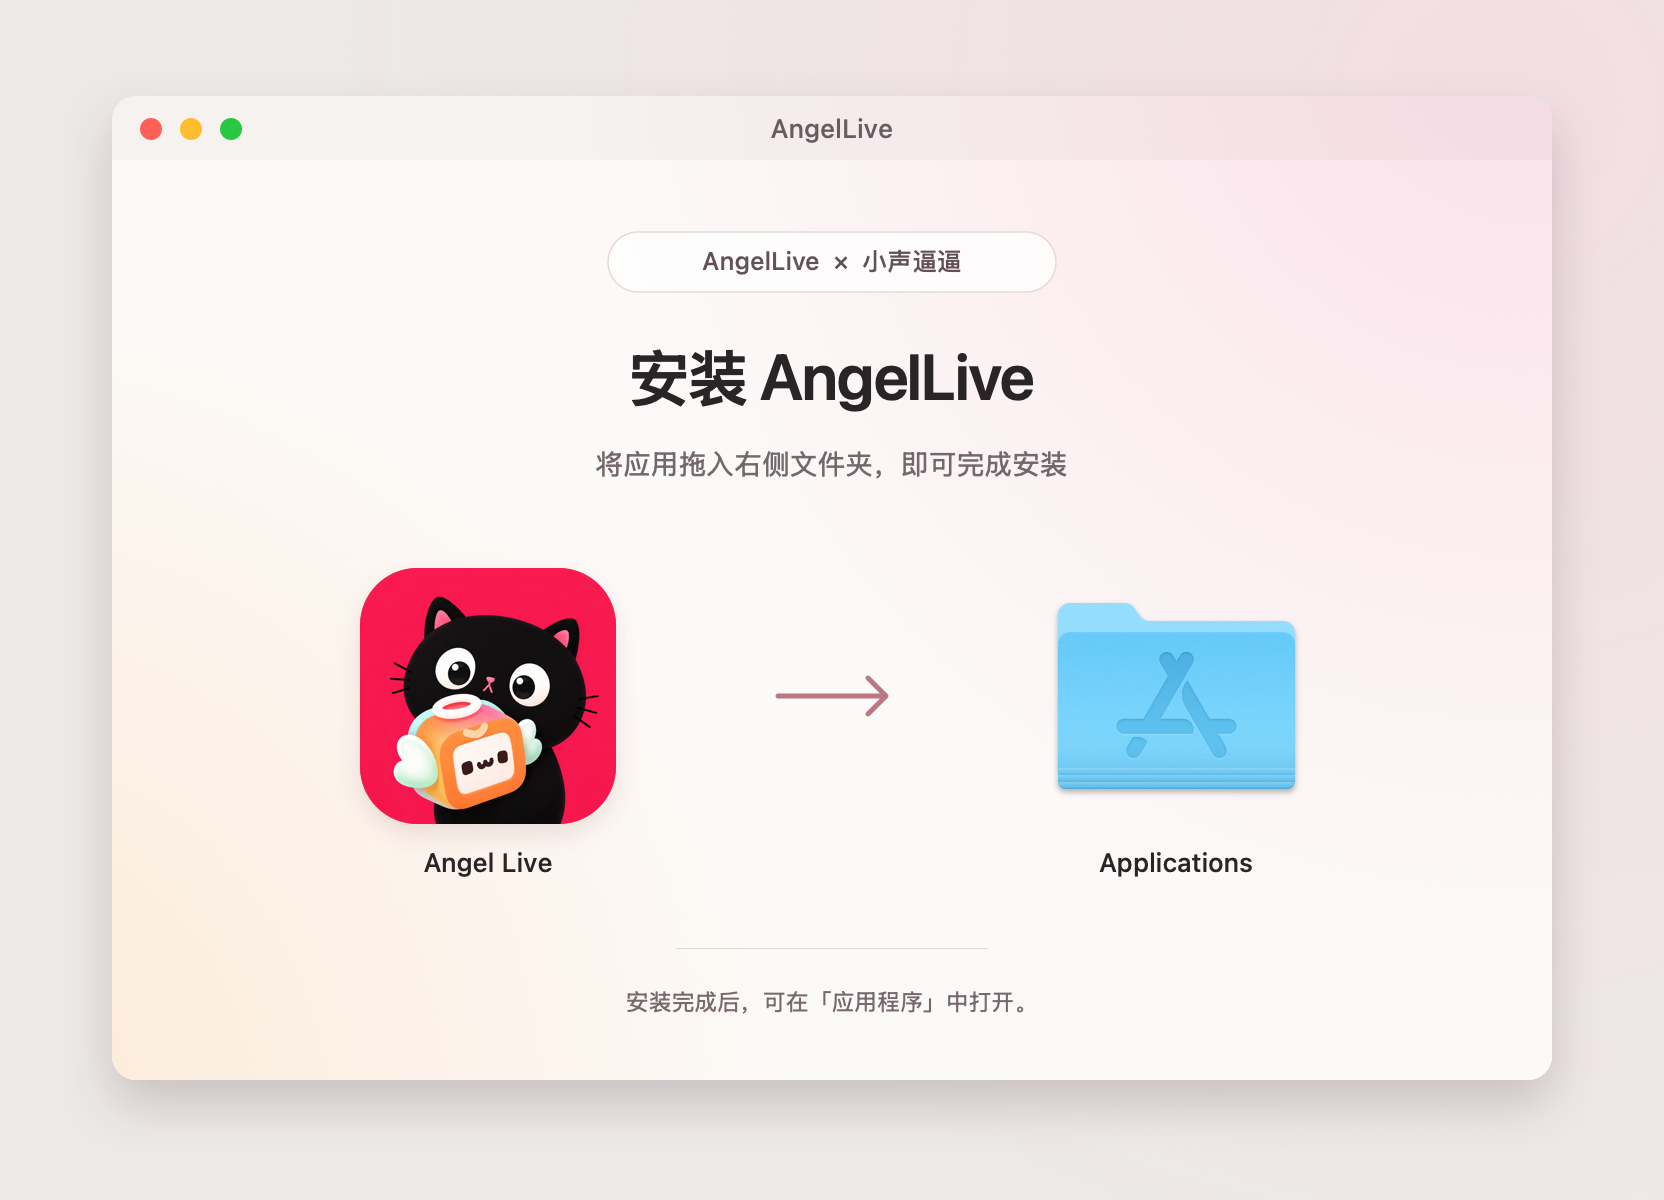
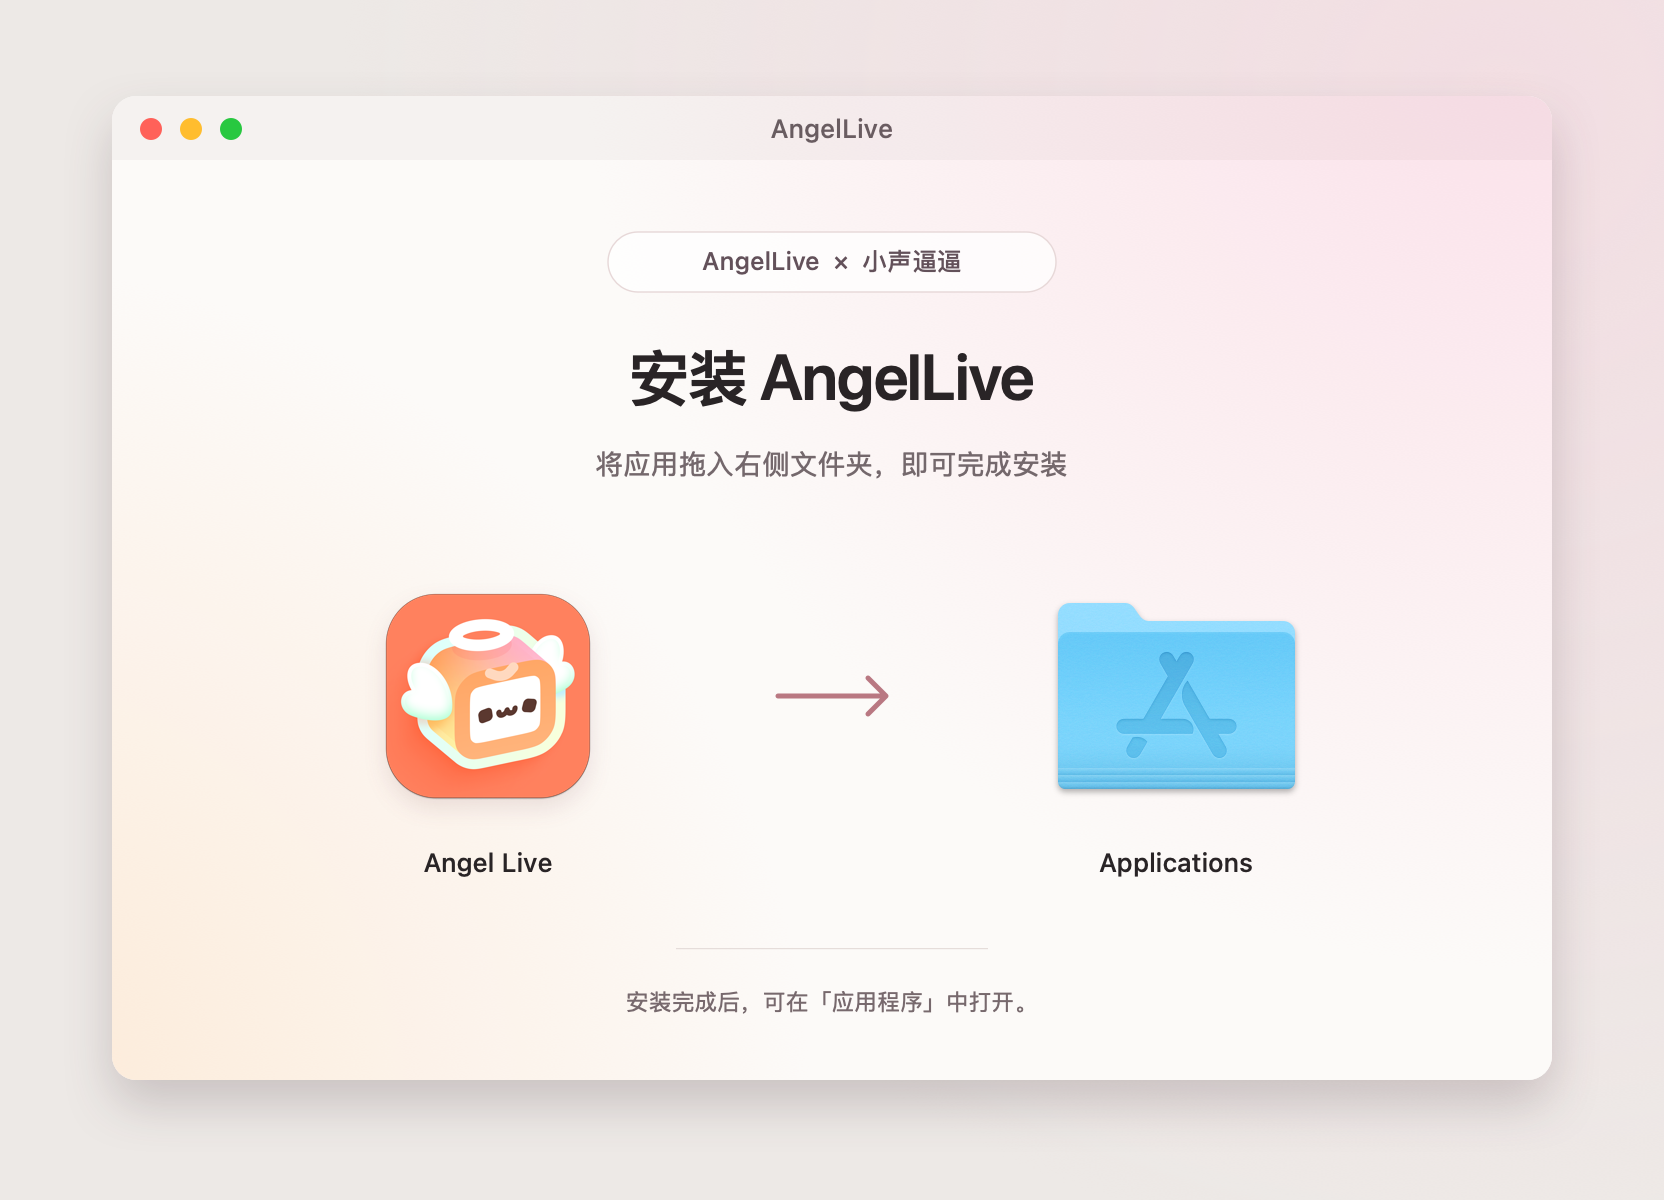
fix(macos): 恢复原版默认应用和 Dock 图标
- 将原版 Icon Composer 资源恢复为安装包主图标，保留原版和联名备用资源。
- 仅在用户选择联名时覆盖运行中的 Dock 图标，保留旧偏好值和设置预览。
- 将 DMG 安装预览的应用图标同步为原版，沿用现有安装背景。

Changed region(s): [[0.2188, 0.4625, 0.375, 0.7092]]

diff --git a/macOS/AngelLiveMacOS/MacDockIconPreference.swift b/macOS/AngelLiveMacOS/MacDockIconPreference.swift
@@ -6,16 +6,16 @@ enum MacDockIconPreference: String, CaseIterable, Identifiable {
     @MainActor
     private static var bundledIconImage: NSImage?
 
-    case xiaoShengBiBi = "xiaoShengBB"
     // Preserve the stored value for users who explicitly selected the original.
     case classic = "primary"
+    case xiaoShengBiBi = "xiaoShengBB"
 
     var id: Self { self }
 
     var title: String {
         switch self {
-        case .xiaoShengBiBi: "小声逼逼（联名）"
         case .classic: "AngelLive 原版"
+        case .xiaoShengBiBi: "小声逼逼（联名）"
         }
     }
 
@@ -24,10 +24,10 @@ enum MacDockIconPreference: String, CaseIterable, Identifiable {
         Self.cacheBundledIconIfNeeded()
 
         switch self {
-        case .xiaoShengBiBi:
-            return Self.bundledIconImage ?? NSApp.applicationIconImage
         case .classic:
-            return Self.classicIconImage
+            return NSImage(named: "AngelLiveClassicRuntime") ?? Self.bundledIconImage ?? NSApp.applicationIconImage
+        case .xiaoShengBiBi:
+            return Self.collaborationIconImage ?? Self.bundledIconImage ?? NSApp.applicationIconImage
         }
     }
 
@@ -36,21 +36,20 @@ enum MacDockIconPreference: String, CaseIterable, Identifiable {
         Self.cacheBundledIconIfNeeded()
 
         switch self {
-        case .xiaoShengBiBi:
+        case .classic:
             // nil restores the bundle icon so Icon Composer can keep supplying
             // the correct appearance-specific representation.
             NSApp.applicationIconImage = nil
-        case .classic:
-            NSApp.applicationIconImage = Self.classicIconImage
+        case .xiaoShengBiBi:
+            NSApp.applicationIconImage = Self.collaborationIconImage
         }
         NSApp.dockTile.display()
     }
 
     @MainActor
     static func applyStoredPreference(defaults: UserDefaults = .standard) {
-        let preference = defaults.string(forKey: storageKey)
-            .flatMap(Self.init(rawValue:)) ?? .xiaoShengBiBi
-        preference.apply()
+        guard defaults.string(forKey: storageKey) == Self.xiaoShengBiBi.rawValue else { return }
+        Self.xiaoShengBiBi.apply()
     }
 
     @MainActor
@@ -60,12 +59,20 @@ enum MacDockIconPreference: String, CaseIterable, Identifiable {
     }
 
     @MainActor
-    private static var classicIconImage: NSImage {
-        // The fallback is the existing rendered original icon, including its
-        // rounded silhouette, for systems without named Icon Composer images.
-        NSImage(named: "AngelLiveClassic")
-            ?? NSImage(named: "AngelLiveClassicRuntime")
-            ?? bundledIconImage
-            ?? NSApp.applicationIconImage
+    private static var collaborationIconImage: NSImage? {
+        if let composedIcon = NSImage(named: "XiaoShengBB") {
+            return composedIcon
+        }
+
+        guard let source = NSImage(named: "XiaoShengBBRuntime") else { return nil }
+
+        // Keep the rounded silhouette when AppKit cannot load the named Icon Composer image.
+        let size = source.size
+        return NSImage(size: size, flipped: false) { bounds in
+            let radius = min(size.width, size.height) * 0.2237
+            NSBezierPath(roundedRect: bounds, xRadius: radius, yRadius: radius).addClip()
+            source.draw(in: bounds, from: .zero, operation: .sourceOver, fraction: 1)
+            return true
+        }
     }
 }

diff --git a/macOS/Distribution/DMG/render.swift b/macOS/Distribution/DMG/render.swift
@@ -110,7 +110,7 @@ func drawBackground() {
 @MainActor
 func drawPreviewIcons() throws {
     let canvas = Canvas(height: layout.height)
-    let artwork = repository.appendingPathComponent("macOS/AngelLiveMacOS/XiaoShengBB.icon/Assets/AngelLive_XiaoShengBB.png")
+    let artwork = repository.appendingPathComponent("macOS/AngelLiveMacOS/Assets.xcassets/AngelLiveClassicRuntime.imageset/AngelLiveClassic.png")
     guard let app = NSImage(contentsOf: artwork),
           let applications = NSImage(contentsOfFile: "/System/Library/CoreServices/CoreTypes.bundle/Contents/Resources/ApplicationsFolderIcon.icns") else {
         throw NSError(domain: "DMGDesign", code: 1, userInfo: [NSLocalizedDescriptionKey: "Missing app artwork or macOS Applications icon."])
@@ -123,11 +123,6 @@ func drawPreviewIcons() throws {
     shadow.shadowOffset = NSSize(width: 0, height: -5)
     shadow.shadowColor = color(0x6D2A39, alpha: 0.12)
     shadow.set()
-    color(0xF43F72).setFill()
-    NSBezierPath(roundedRect: appBounds, xRadius: size * 0.224, yRadius: size * 0.224).fill()
-    NSGraphicsContext.restoreGraphicsState()
-    NSGraphicsContext.saveGraphicsState()
-    NSBezierPath(roundedRect: appBounds, xRadius: size * 0.224, yRadius: size * 0.224).addClip()
     app.draw(in: appBounds, from: .zero, operation: .sourceOver, fraction: 1)
     NSGraphicsContext.restoreGraphicsState()
 

diff --git a/macOS/AngelLiveMacOS/Views/SettingView.swift b/macOS/AngelLiveMacOS/Views/SettingView.swift
@@ -17,7 +17,7 @@ struct SettingView: View {
     #endif
     @Environment(PluginAvailabilityService.self) private var pluginAvailability
     @AppStorage(MacDockIconPreference.storageKey)
-    private var dockIconPreference = MacDockIconPreference.xiaoShengBiBi
+    private var dockIconPreference = MacDockIconPreference.classic
     @AppStorage(MacPlaybackPresentationPreference.singlePageModeKey)
     private var singlePagePlayback = false
 

diff --git a/macOS/Distribution/DMG/README.md b/macOS/Distribution/DMG/README.md
@@ -1,6 +1,6 @@
 # AngelLive 联名 DMG 安装窗口
 
-浅暖白背景，右上淡粉、左下淡橙，沿用 AngelLive × 小声逼逼联名图标。中央保留从应用到 Applications 的拖拽路径，使用系统应用程序文件夹图标。界面只说明安装动作与安装后的打开位置。
+浅暖白背景，右上淡粉、左下淡橙，保留 AngelLive × 小声逼逼联名标识。应用使用 AngelLive 原版图标。中央保留从应用到 Applications 的拖拽路径，使用系统应用程序文件夹图标。界面只说明安装动作与安装后的打开位置。
 
 ![安装窗口设计预览](preview.png)
 
@@ -13,7 +13,7 @@
 | `background@2x.png` | 1440 × 920 px，144 DPI |
 | `preview.png` | 1664 × 1200 px 的安装窗口设计预览，含示意图标和窗口边框 |
 | `layout.json` | 文案、窗口尺寸和图标位置 |
-| `render.swift` | 使用系统字体、AppKit 和现有联名资源重新导出素材 |
+| `render.swift` | 使用系统字体、AppKit 和原版图标重新导出素材 |
 | `dmg-settings.py` | dmgbuild 的可复用 Finder 布局配置 |
 
 实际打包使用 `background.tiff`。背景中没有绘制应用、文件夹或它们的名称；这些由 Finder 根据真实 `.app` 和 `/Applications` 链接显示，保持拖拽、键盘操作和系统菜单可用。`preview.png` 只用于设计评审。
